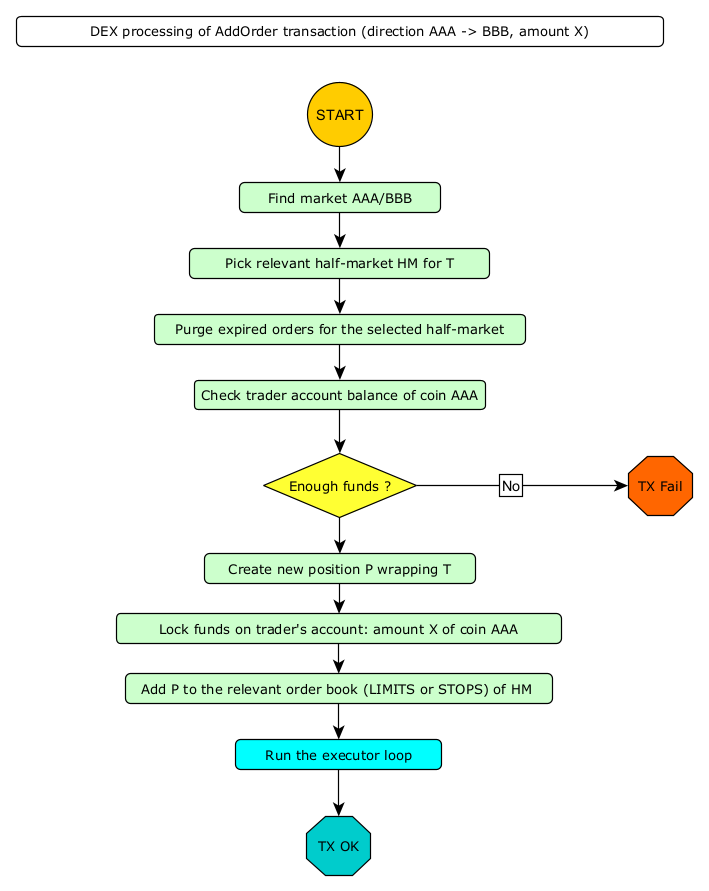
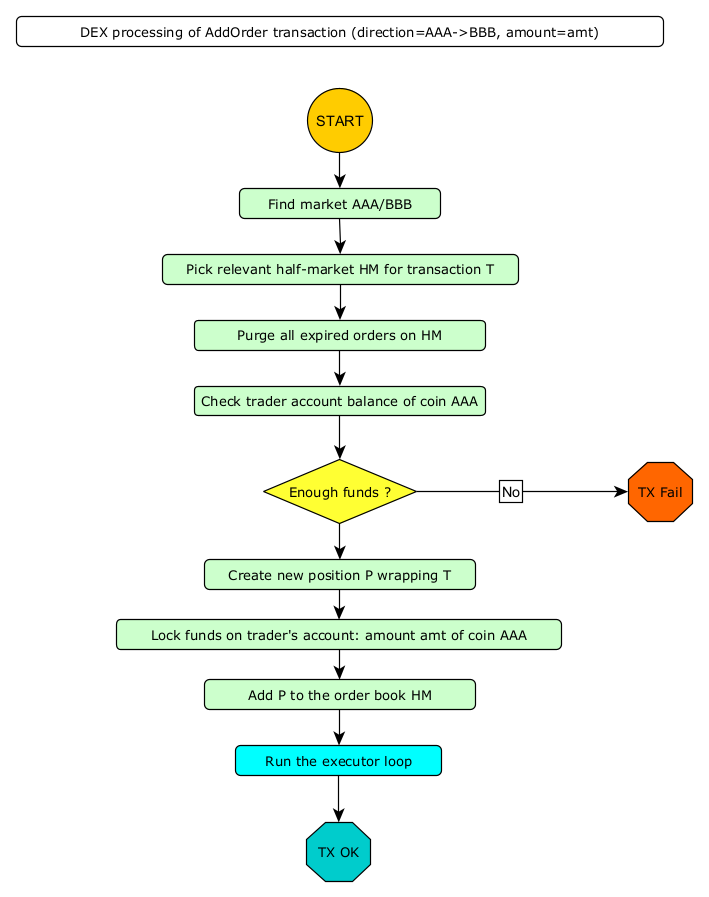
work in progress

diff --git a/source/07-executors.rst b/source/07-executors.rst
@@ -71,77 +71,128 @@ Motivation for above rules comes from various sources:
 Executor loop overview
 ----------------------
 
-Thanks to the rules enumerated in previous chapter, the job of an executor loop can be largely simplified. For
-describing the internals of the executor we assume the following context:
+Because we assume **Rule #2: Isolation of markets**, once a new order arrives to the DEX, we are going to process
+the order book only for the market where the new order belongs. Let us fix the coins to be :math:`AAA` and :math:`BBB`,
+so the market is :math:`AAA \rightarrow BBB` and orders have direction :math:`AAA \rightarrow BBB` or
+:math:`BBB \rightarrow AAA`. We will further refer to this market as ``market`` (see the scripts below).
 
- 1. :math:`A` and :math:`B` are coins on the market under consideration. :math:`\langle A, B \rangle` is the market
-    where the last new order was added.
+Thanks to the rules enumerated in previous chapter, the job of an executor loop can be largely simplified. Let us
+outline the template of such loop by extending the activity diagram in from previous chapter:
 
- 2. Following the cascade of swaps triggered by adding the new order, we already executed :math:`k` iterations of
-    the executor loop, where :math:`k \geq 0`.
+.. image:: pictures/07/executor-loop.png
+    :width: 100%
+    :align: center
 
- 3. Current AMM balances on the market :math:`\langle A, B \rangle` are :math:`\langle a:A, b:B \rangle`.
+Places marked above with red asterisk are where non-trivial logic must be plugged-in:
 
- 4. We have 2 queues of limit orders on the market :math:`\langle A, B \rangle`:
+**1: Half-market selection**
+  At this point, one of two half-markets must be picked. This is equivalent to selecting a direction: :math:`AAA \rightarrow BBB`
+  or :math:`BBB \rightarrow AAA`. In the context of "oriented" market, this means selecting "asks" or "bids" side
+  of the order book.
 
-      - orders with direction :math:`A \rightarrow B`
-      - orders with direction: :math:`B \rightarrow A`
+**2: Swap preconditions**
+  At this point swap preconditions are checked. Red light will abort swap creation and terminate the executor loop.
 
- 5. Follow this sequence:
+**3: Swap amounts**
+  Deciding on amounts of the next swap to be executed. Because of **Rule #5: Natural trading priority**, the next swap
+  to be executed must relate to the position at the head of the positions list (because the positions list is ordered
+  by price-then-order-time.
 
-      - **[A]** Should we stop the stop the loop or continue ?
-      - If continue: pick the queue
-      - Let :math:`p` be the position at the head of picked queue
-      - **[B]** Pick two numbers defining the swap to be made in the context of position :math:`p`: :math:`x` and :math:`y`,
-        where :math:`x` will be the "sold" amount and :math:`y` will be the "bought" amount of the resulting swap.
-      - create the swap
+**4: Executor loop termination**
+  Deciding if the executor loop should continue or exit.
 
- 6. Run another iterator of step 5.
-
-Variants of executor implementation we discuss below are specified by providing the logic to be applied in steps
-5.A and 5.B.
+In the algorithms of the executor loop we outline below, ``pos`` is the just-added position. We follow attributes
+and methods as defined in the UML model.
 
 Variant 1: TEAL executor
 ------------------------
 
-This executor is based on a proprietary algorithm created in Onomy Protocol.
+This executor is based on a proprietary algorithm created in Onomy Protocol. This executor follows this TLA+
+specification:
 
-Step 5.A is easy: the loop has always one iteration only.
+https://github.com/onomyprotocol/specs/
+
+1. Half-market selection
+^^^^^^^^^^^^^^^^^^^^^^^^
+
+We select the same half-market where ``pos`` belongs:
+
+.. code:: scala
+
+  val selectedHalfMarket = pos.halfMarket
+
+2: Swap preconditions
+^^^^^^^^^^^^^^^^^^^^^
+
+.. code:: scala
+
+    val limitHead: Position = selectedHalfMarket.limitBook.head
+    val r: Fraction = limitHead.exchangeRate
+    val a: FPNumber = market.ammBalanceOf(limitHead.order.askCoin)
+    val b: FPNumber = market.ammBalanceOf(limitHead.order.bidCoin)
+    val ammPrice: Fraction = Fraction(a, b)
+
+    if (ammPrice <= r)
+      return RED_LIGHT
+    else {
+      val maxBidAmt: FPNumber = (a - b * r) * ((r + 1).reciprocal)
+      val strikeBidAmt: FPNumber = FPNumber.min(limitHead.outstandingAmount, maxBidAmt)
+      val strikeAskAmt: FPNumber = strikeBidAmt * r
+      if (strikeBidAmt > 0 && strikeAskAmt > 0)
+        return GREEN_LIGHT
+      else
+        return RED_LIGHT
+    }
+
+3: Swap amounts
+^^^^^^^^^^^^^^^
+
+.. code:: scala
+
+    val limitHead: Position = selectedHalfMarket.limitBook.head
+    val r: Fraction = limitHead.exchangeRate
+    val a: FPNumber = market.ammBalanceOf(limitHead.order.askCoin)
+    val b: FPNumber = market.ammBalanceOf(limitHead.order.bidCoin)
+    val ammPrice: Fraction = Fraction(a, b)
+    val maxBidAmt: FPNumber = (a - b * r) * ((r + 1).reciprocal)
+    val x: FPNumber = FPNumber.min(limitHead.outstandingAmount, maxBidAmt)
+    val y: FPNumber = x * r
+
+4: Executor loop termination
+^^^^^^^^^^^^^^^^^^^^^^^^^^^^
+
+We terminate unconditionally. This means that the executor loop has always only one iteration.
 
 
 Variant 2: TURQUOISE executor
 -----------------------------
 
-TURQUOISE executor does not support stop orders, hence the market state is composed of:
+This executor is based on an idea that we execute orders always using the limit price as declared in the order itself.
 
- - limit orders on the ASK side (sellers)
- - limit orders on the BIS side (buyers)
- - two liquidity pool balances (one balance for each coin)
+1. Half-market selection
+^^^^^^^^^^^^^^^^^^^^^^^^
 
-Basic idea of the algorithm
-^^^^^^^^^^^^^^^^^^^^^^^^^^^
+We select the same half-market where ``p`` belongs:
 
+.. code:: text
 
-
-
-Mathematics
-^^^^^^^^^^^
-
-We will now derive the mathematical formulas to
-
-The main idea of the algorithm is to execute every swap using the limit price declared in the order. This in contrary
-to a FOREX-style exchanges, where every swap is executed using the current market price. While executing swaps this way,
-the limiting factor is the "real" price, which we establish as :math:`\frac{a}{b}`, where :math:`A` and :math:`B`
+  val selectedHalfMarket = p.halfMarket
 
 
+2: Swap amounts
+^^^^^^^^^^^^^^^
 
+
+3: Executor loop termination
+^^^^^^^^^^^^^^^^^^^^^^^^^^^^
+
+We terminate unconditionally. This means that the executor loop has always only one iteration.
 
 
 Variant 3: UNISWAP_HYBRID executor
 ----------------------------------
 
 
-f
 
 
 Complications caused by finite precision
